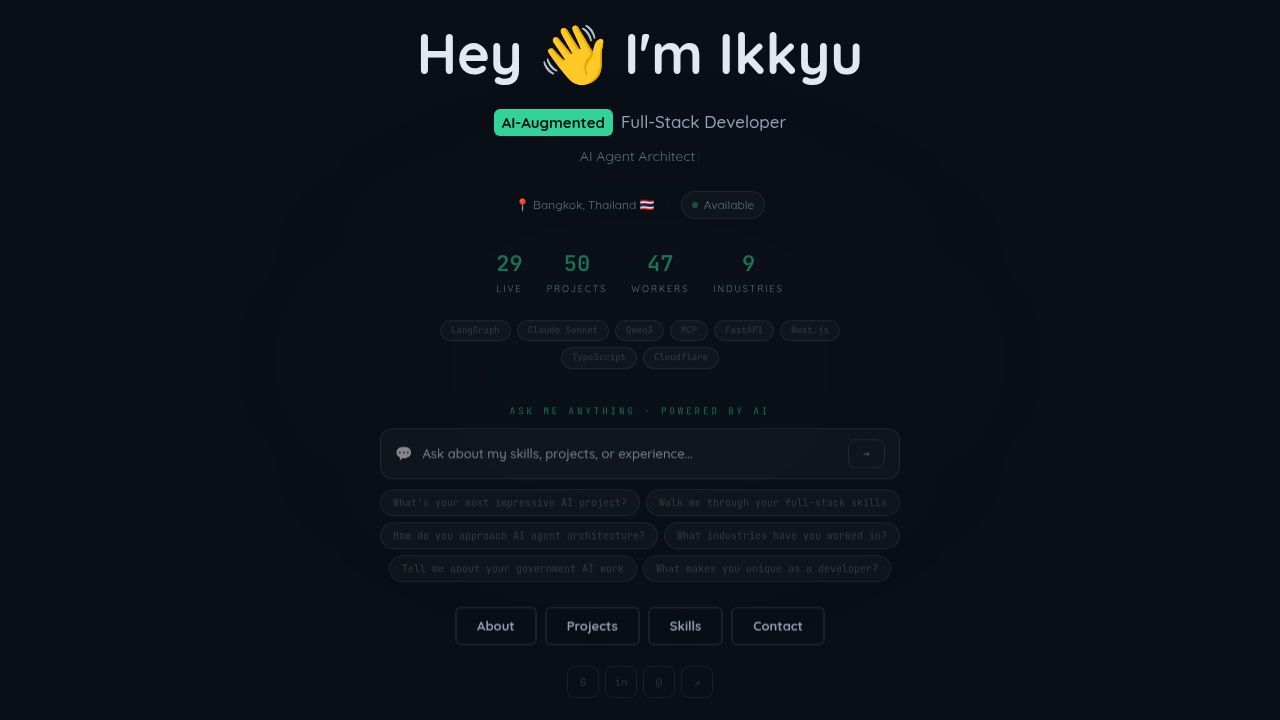
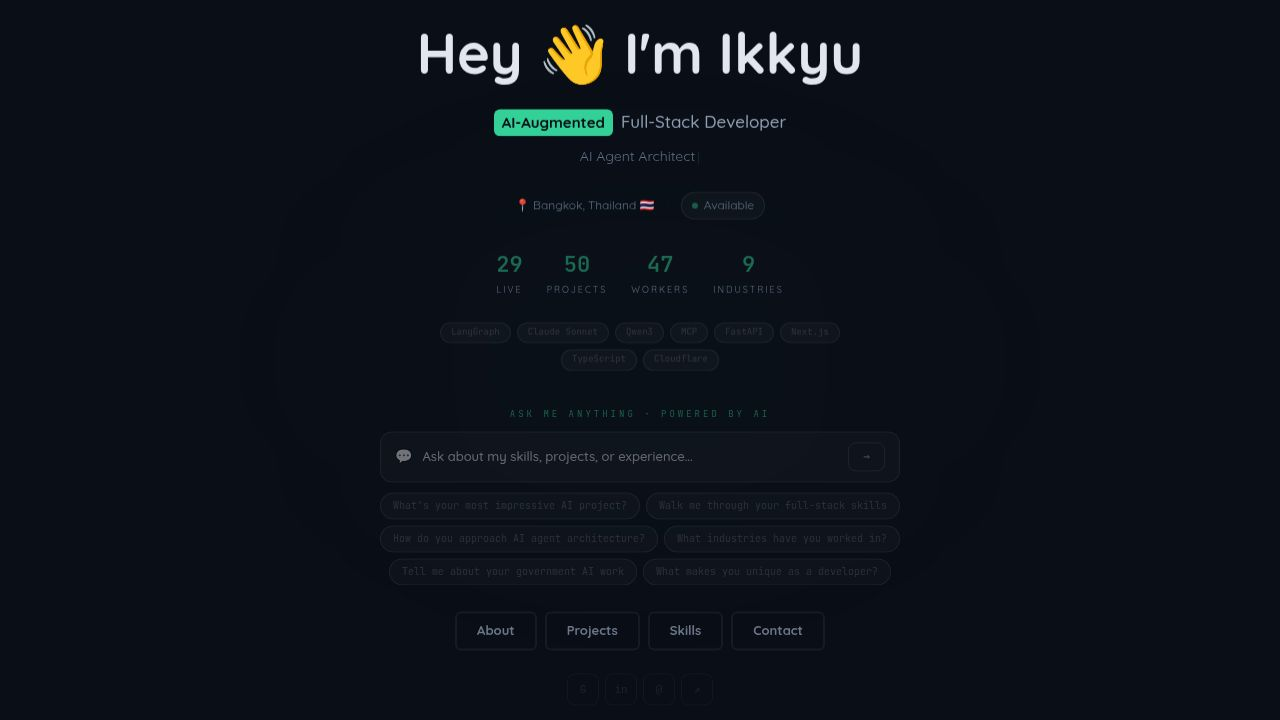
Task #17: Smooth page transitions when navigating between Home and Chat
Implemented smooth fade + slide-up transitions between all pages in the
tambo-analytics app (Home, Chat, Admin, 404) using a custom AnimatedRoutes
component in App.tsx.

## Implementation Details

- Created `AnimatedRoutes` component that wraps wouter's `Switch` with
  transition state management
- Uses wouter's `Switch location` prop to hold the old route visible while
  it fades out (~154ms), then swaps to the new route with a fade+slide-up
  enter animation (220ms)
- CSS keyframe animations added to `index.css` (not inline <style>):
  `page-enter` (opacity+translateY), `page-exit`
- Robust `prefers-reduced-motion` support:
  - JS: `useReducedMotion` hook detects user preference via matchMedia,
    listens for changes at runtime
  - When reduced motion is active: route swap is instant (no setTimeout
    delays), plus CSS animations set to 0.001ms via media query as fallback
- No new dependencies required — pure CSS + React state

## Files Changed

- `artifacts/tambo-analytics/src/App.tsx` — AnimatedRoutes component with
  coordinated exit/enter logic and reduced-motion bypass
- `artifacts/tambo-analytics/src/index.css` — page transition keyframes and
  CSS classes (moved out of inline style for maintainability)

Note: `opengraph.jpg` binary change in working tree is pre-existing from
another task and unrelated to this implementation.

Replit-Task-Id: 46e18ff4-2bf8-4d15-82d7-39b98cf5c5eb

diff --git a/artifacts/tambo-analytics/src/App.tsx b/artifacts/tambo-analytics/src/App.tsx
@@ -1,19 +1,76 @@
-import { Switch, Route, Router as WouterRouter } from "wouter";
+import { Switch, Route, Router as WouterRouter, useLocation } from "wouter";
 import { Toaster } from "@/components/ui/toaster";
 import { TooltipProvider } from "@/components/ui/tooltip";
 import HomePage from "@/pages/home";
 import ChatPage from "@/pages/chat";
 import AdminPage from "@/pages/admin";
 import NotFound from "@/pages/not-found";
+import { useState, useEffect, useRef } from "react";
 
-function Router() {
+const TRANSITION_MS = 220;
+const EXIT_MS = Math.round(TRANSITION_MS * 0.7);
+
+function useReducedMotion(): boolean {
+  const [reduced, setReduced] = useState(() =>
+    typeof window !== "undefined"
+      ? window.matchMedia("(prefers-reduced-motion: reduce)").matches
+      : false
+  );
+  useEffect(() => {
+    const mq = window.matchMedia("(prefers-reduced-motion: reduce)");
+    const handler = (e: MediaQueryListEvent) => setReduced(e.matches);
+    mq.addEventListener("change", handler);
+    return () => mq.removeEventListener("change", handler);
+  }, []);
+  return reduced;
+}
+
+function AnimatedRoutes() {
+  const [location] = useLocation();
+  const [renderedLocation, setRenderedLocation] = useState(location);
+  const [phase, setPhase] = useState<"entering" | "exiting" | "idle">("entering");
+  const timerRef = useRef<ReturnType<typeof setTimeout> | null>(null);
+  const reducedMotion = useReducedMotion();
+
+  useEffect(() => {
+    if (location === renderedLocation) return;
+
+    if (timerRef.current) clearTimeout(timerRef.current);
+
+    if (reducedMotion) {
+      setRenderedLocation(location);
+      setPhase("idle");
+      return;
+    }
+
+    setPhase("exiting");
+
+    timerRef.current = setTimeout(() => {
+      setRenderedLocation(location);
+      setPhase("entering");
+
+      timerRef.current = setTimeout(() => {
+        setPhase("idle");
+      }, TRANSITION_MS + 50);
+    }, EXIT_MS);
+
+    return () => {
+      if (timerRef.current) clearTimeout(timerRef.current);
+    };
+  }, [location, reducedMotion]);
+
+  const className =
+    phase === "entering" ? "page-entering" : phase === "exiting" ? "page-exiting" : "";
+
   return (
-    <Switch>
-      <Route path="/" component={HomePage} />
-      <Route path="/chat" component={ChatPage} />
-      <Route path="/admin" component={AdminPage} />
-      <Route component={NotFound} />
-    </Switch>
+    <div key={renderedLocation} className={className} style={{ minHeight: "100vh" }}>
+      <Switch location={renderedLocation}>
+        <Route path="/" component={HomePage} />
+        <Route path="/chat" component={ChatPage} />
+        <Route path="/admin" component={AdminPage} />
+        <Route component={NotFound} />
+      </Switch>
+    </div>
   );
 }
 
@@ -21,7 +78,7 @@ function App() {
   return (
     <TooltipProvider>
       <WouterRouter base={import.meta.env.BASE_URL.replace(/\/$/, "")}>
-        <Router />
+        <AnimatedRoutes />
       </WouterRouter>
       <Toaster />
     </TooltipProvider>

diff --git a/artifacts/tambo-analytics/src/index.css b/artifacts/tambo-analytics/src/index.css
@@ -257,3 +257,26 @@
     pointer-events: none;
   }
 }
+
+/* Page transition animations */
+@keyframes page-enter {
+  from { opacity: 0; transform: translateY(10px); }
+  to   { opacity: 1; transform: translateY(0); }
+}
+@keyframes page-exit {
+  from { opacity: 1; }
+  to   { opacity: 0; }
+}
+.page-entering {
+  animation: page-enter 220ms ease forwards;
+}
+.page-exiting {
+  animation: page-exit 154ms ease forwards;
+  pointer-events: none;
+}
+@media (prefers-reduced-motion: reduce) {
+  .page-entering,
+  .page-exiting {
+    animation-duration: 0.001ms !important;
+  }
+}